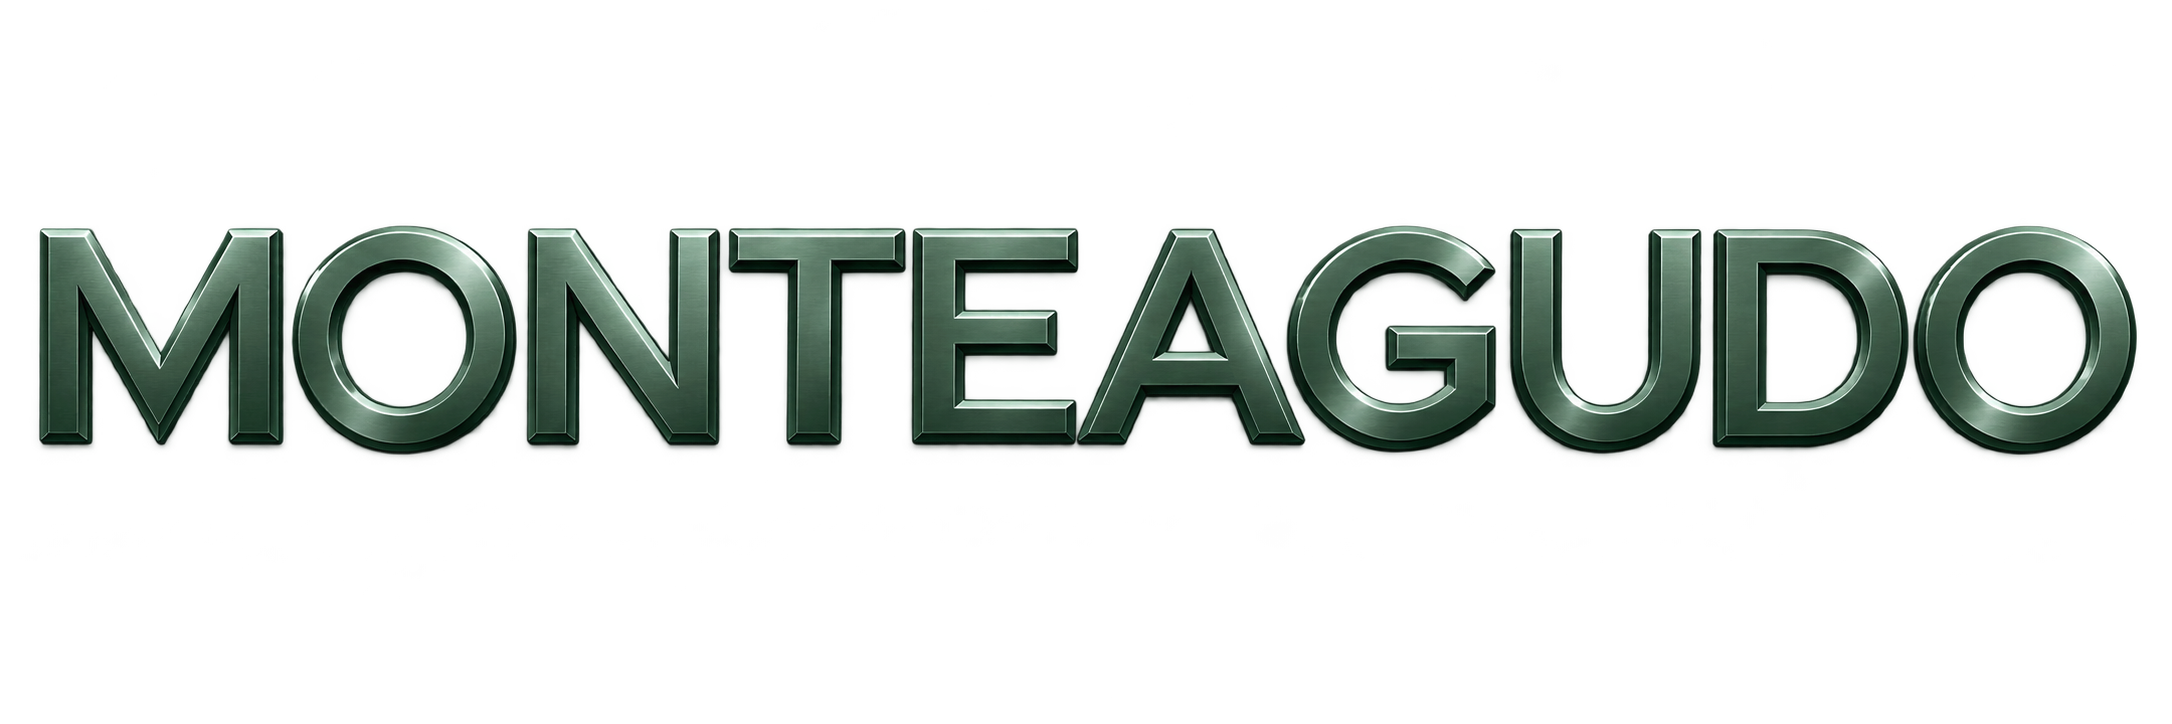
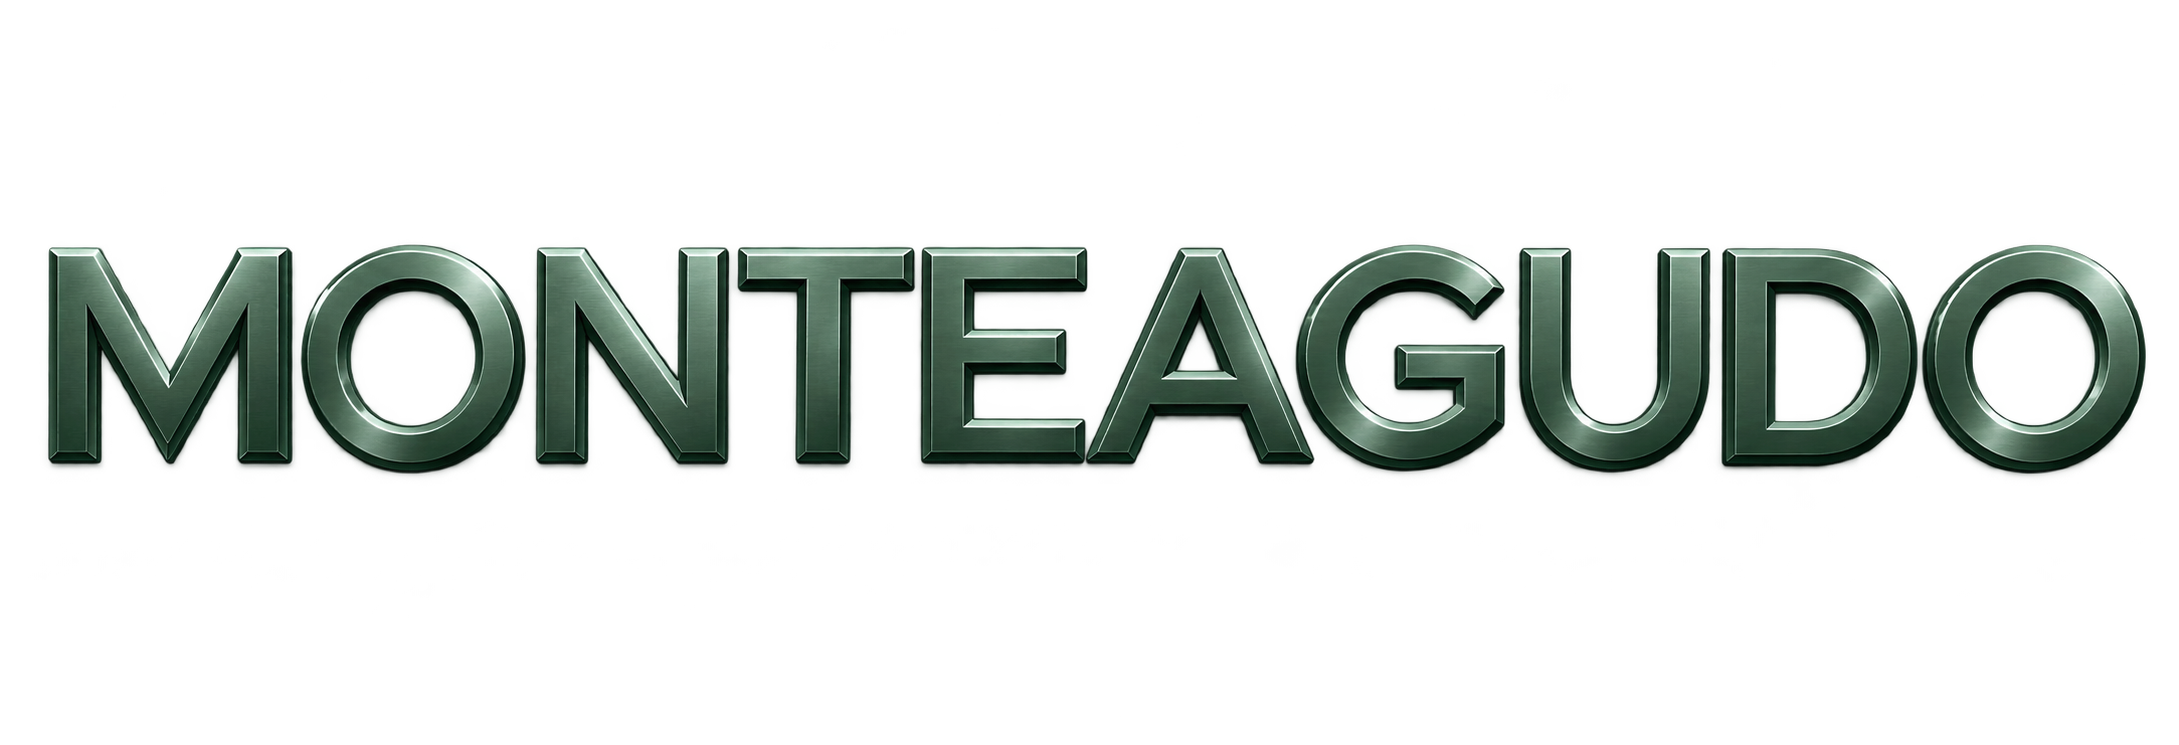
Auth: entrar/recuperar/verificar centrados y fijos (sin scroll); crear cuenta con cabecera + boton fijos y solo el formulario con scroll + boton volver

Changed region(s): [[0.0, 0.3039, 0.9871, 0.6381]]

diff --git a/src/app/(auth)/crear-cuenta/RegisterForm.tsx b/src/app/(auth)/crear-cuenta/RegisterForm.tsx
@@ -17,78 +17,91 @@ export default function RegisterForm({ viviendas }: { viviendas: Vivienda[] }) {
   const [state, action] = useActionState(registerAction, initial);
 
   return (
-    <form action={action} className="flex flex-col gap-4">
-      <div>
-        <h1 className="text-2xl font-semibold">{t("title")}</h1>
-        <p className="mt-1 text-sm text-ink-2">{t("hint")}</p>
-      </div>
+    <form action={action} className="flex h-full flex-col">
+      <header className="flex shrink-0 items-center gap-2 px-5 pb-3 pt-5">
+        <Link
+          href="/entrar"
+          aria-label={t("back")}
+          className="-ml-1.5 flex size-9 items-center justify-center rounded-lg text-ink-2"
+        >
+          <svg width="22" height="22" viewBox="0 0 24 24" fill="none" stroke="currentColor" strokeWidth="1.9" aria-hidden>
+            <path d="M15 5l-7 7 7 7" />
+          </svg>
+        </Link>
+        <h1 className="text-xl font-semibold">{t("title")}</h1>
+      </header>
 
-      {state.error ? <Alert>{state.error}</Alert> : null}
+      <div className="scroll-area min-h-0 flex-1 space-y-4 px-5 py-3">
+        <p className="text-sm text-ink-2">{t("hint")}</p>
 
-      <GoogleButton />
-      <Divider label={tAuth("or")} />
+        {state.error ? <Alert>{state.error}</Alert> : null}
 
-      <div className="flex gap-3">
-        <Field label={t("firstName")} htmlFor="nombre">
-          <TextInput id="nombre" name="nombre" autoComplete="given-name" required />
+        <GoogleButton />
+        <Divider label={tAuth("or")} />
+
+        <div className="flex flex-col gap-4">
+          <Field label={t("firstName")} htmlFor="nombre">
+            <TextInput id="nombre" name="nombre" autoComplete="given-name" required />
+          </Field>
+          <Field label={t("lastName")} htmlFor="apellidos">
+            <TextInput
+              id="apellidos"
+              name="apellidos"
+              autoComplete="family-name"
+              required
+            />
+          </Field>
+        </div>
+
+        <Field label={t("email")} htmlFor="email">
+          <TextInput id="email" name="email" type="email" autoComplete="email" required />
         </Field>
-        <Field label={t("lastName")} htmlFor="apellidos">
+
+        <Field label={t("home")} htmlFor="vivienda_id">
+          <Select id="vivienda_id" name="vivienda_id" defaultValue="" required>
+            <option value="" disabled>
+              {t("homePlaceholder")}
+            </option>
+            {viviendas.map((v) => (
+              <option key={v.id} value={v.id}>
+                {v.etiqueta}
+              </option>
+            ))}
+          </Select>
+        </Field>
+
+        <Field label={t("password")} htmlFor="password" hint={t("passwordHint")}>
           <TextInput
-            id="apellidos"
-            name="apellidos"
-            autoComplete="family-name"
+            id="password"
+            name="password"
+            type="password"
+            autoComplete="new-password"
+            minLength={8}
             required
           />
         </Field>
+
+        <label className="flex items-start gap-2 text-xs text-ink-2">
+          <input
+            type="checkbox"
+            name="acepta"
+            required
+            className="mt-0.5 size-4"
+            style={{ accentColor: "var(--accent)" }}
+          />
+          {t("accept")}
+        </label>
       </div>
 
-      <Field label={t("email")} htmlFor="email">
-        <TextInput id="email" name="email" type="email" autoComplete="email" required />
-      </Field>
-
-      <Field label={t("home")} htmlFor="vivienda_id">
-        <Select id="vivienda_id" name="vivienda_id" defaultValue="" required>
-          <option value="" disabled>
-            {t("homePlaceholder")}
-          </option>
-          {viviendas.map((v) => (
-            <option key={v.id} value={v.id}>
-              {v.etiqueta}
-            </option>
-          ))}
-        </Select>
-      </Field>
-
-      <Field label={t("password")} htmlFor="password" hint={t("passwordHint")}>
-        <TextInput
-          id="password"
-          name="password"
-          type="password"
-          autoComplete="new-password"
-          minLength={8}
-          required
-        />
-      </Field>
-
-      <label className="flex items-start gap-2 text-xs text-ink-2">
-        <input
-          type="checkbox"
-          name="acepta"
-          required
-          className="mt-0.5 size-4"
-          style={{ accentColor: "var(--accent)" }}
-        />
-        {t("accept")}
-      </label>
-
-      <SubmitButton>{t("submit")}</SubmitButton>
-
-      <p className="mt-2 text-center text-sm text-ink-2">
-        {t("haveAccount")}{" "}
-        <Link href="/entrar" className="font-semibold text-accent-ink">
-          {t("login")}
-        </Link>
-      </p>
+      <footer className="shrink-0 space-y-2 border-t border-line px-5 pb-5 pt-3">
+        <SubmitButton>{t("submit")}</SubmitButton>
+        <p className="text-center text-sm text-ink-2">
+          {t("haveAccount")}{" "}
+          <Link href="/entrar" className="font-semibold text-accent-ink">
+            {t("login")}
+          </Link>
+        </p>
+      </footer>
     </form>
   );
 }

diff --git a/src/app/(auth)/layout.tsx b/src/app/(auth)/layout.tsx
@@ -1,5 +1,4 @@
 import type { ReactNode } from "react";
-import Image from "next/image";
 import { redirect } from "next/navigation";
 import { getSessionUser } from "@/lib/auth";
 
@@ -9,19 +8,5 @@ export default async function AuthLayout({
   const session = await getSessionUser();
   if (session?.user) redirect("/");
 
-  return (
-    <main className="flex h-full flex-col overflow-y-auto px-6">
-      <div className="mx-auto flex min-h-full w-full max-w-sm flex-col justify-center py-8">
-        <Image
-          src="/monteagudo-wordmark.png"
-          alt="Monteagudo"
-          width={240}
-          height={80}
-          priority
-          className="mx-auto mb-7 h-10 w-auto"
-        />
-        {children}
-      </div>
-    </main>
-  );
+  return <main className="flex h-full flex-col overflow-hidden">{children}</main>;
 }

diff --git a/src/app/(auth)/verificar-correo/page.tsx b/src/app/(auth)/verificar-correo/page.tsx
@@ -1,6 +1,7 @@
 import Link from "next/link";
 import { getTranslations } from "next-intl/server";
 import ResendButton from "./ResendButton";
+import AuthCentered from "@/components/AuthCentered";
 
 export default async function Page({
   searchParams,
@@ -11,6 +12,7 @@ export default async function Page({
   const t = await getTranslations("auth.verify");
 
   return (
+    <AuthCentered>
     <div className="flex flex-col items-center gap-4 text-center">
       <span className="flex size-16 items-center justify-center rounded-full bg-accent-soft">
         <svg
@@ -49,5 +51,6 @@ export default async function Page({
         ← Entrar
       </Link>
     </div>
+    </AuthCentered>
   );
 }

diff --git a/src/components/AuthCentered.tsx b/src/components/AuthCentered.tsx
@@ -1,0 +1,19 @@
+import Image from "next/image";
+import type { ReactNode } from "react";
+
+/** Pantallas de autenticación cortas: logo centrado + contenido, sin scroll. */
+export default function AuthCentered({ children }: { children: ReactNode }) {
+  return (
+    <div className="mx-auto flex min-h-full w-full max-w-sm flex-col justify-center overflow-y-auto px-6 py-8">
+      <Image
+        src="/monteagudo-wordmark.png"
+        alt="Monteagudo"
+        width={240}
+        height={82}
+        priority
+        className="mx-auto mb-4 h-auto w-full max-w-[15rem]"
+      />
+      {children}
+    </div>
+  );
+}

diff --git a/src/app/(auth)/recuperar/page.tsx b/src/app/(auth)/recuperar/page.tsx
@@ -1,5 +1,10 @@
 import RecoverForm from "./RecoverForm";
+import AuthCentered from "@/components/AuthCentered";
 
 export default function Page() {
-  return <RecoverForm />;
+  return (
+    <AuthCentered>
+      <RecoverForm />
+    </AuthCentered>
+  );
 }

diff --git a/src/app/(auth)/entrar/page.tsx b/src/app/(auth)/entrar/page.tsx
@@ -1,5 +1,10 @@
 import LoginForm from "./LoginForm";
+import AuthCentered from "@/components/AuthCentered";
 
 export default function Page() {
-  return <LoginForm />;
+  return (
+    <AuthCentered>
+      <LoginForm />
+    </AuthCentered>
+  );
 }
